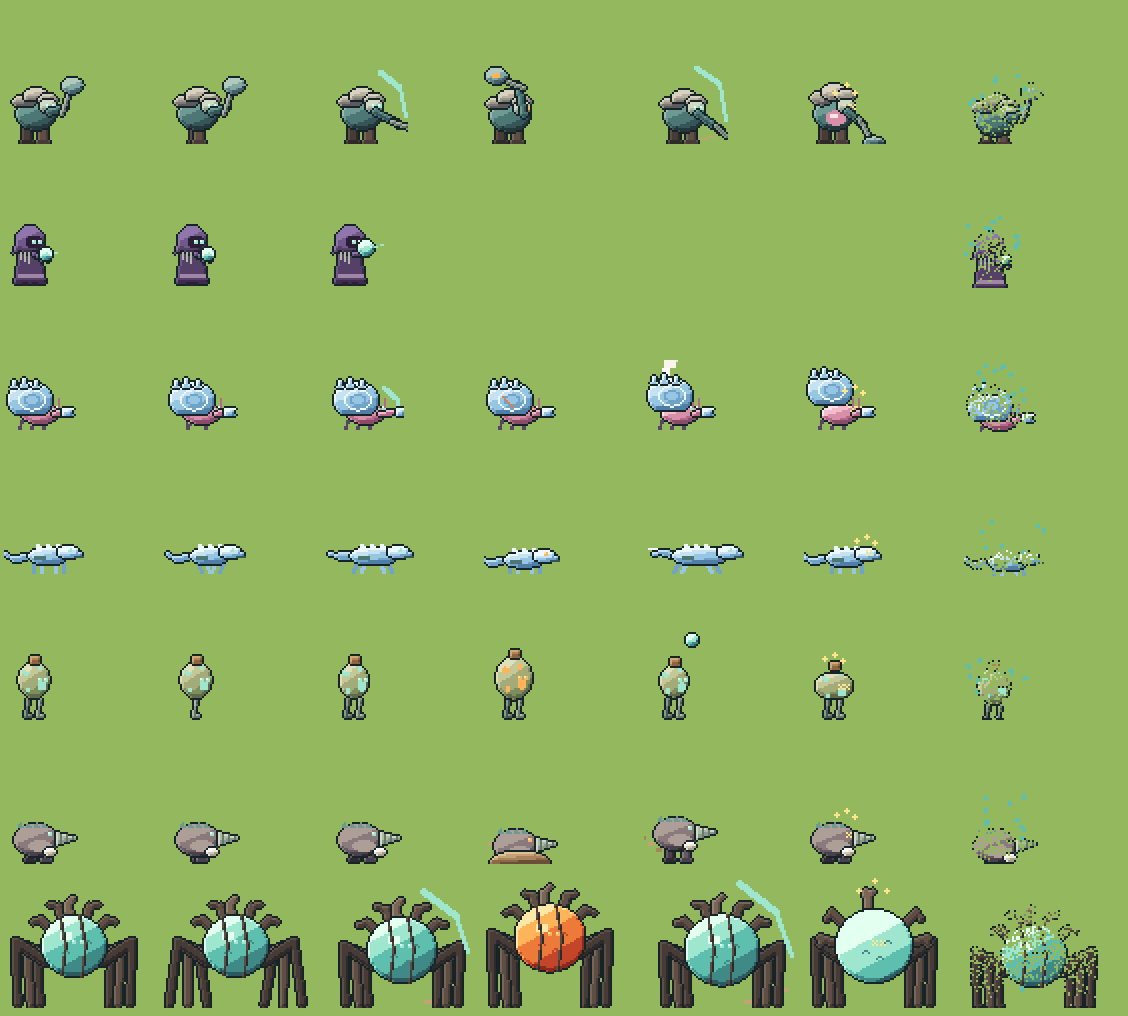
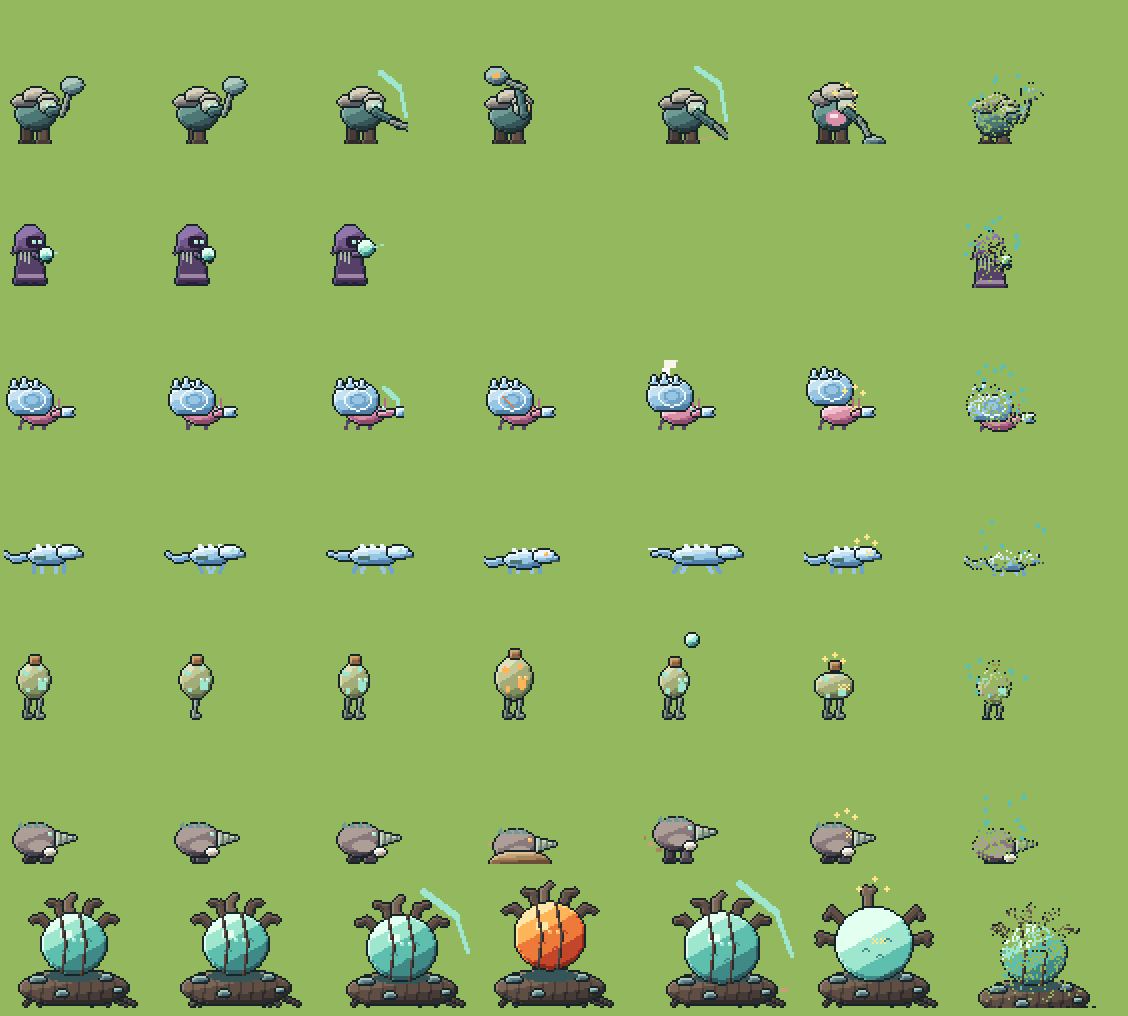
[Fix] 둥지의 핵 거미 다리를 없애고 뿌리 둥지 위의 심장으로

Changed region(s): [[0.0, 0.8543, 0.9929, 1.0]]

diff --git a/tools/art/release_slice/challenge.py b/tools/art/release_slice/challenge.py
@@ -369,17 +369,25 @@ def nestcore(b=0, lean=0, legs=0, open_=0.0, pulse=1.0, state="n", ph=0, arc=Non
     W, H = 76, 68
     img = Img(W, H)
     cx = 35 + lean
-    cy = 37 + b - raise_
-    # root legs, six, crawling
-    for k in range(6):
+    cy = 36 + b - raise_
+    # no legs: the core sits in a low nest of roots and hyphae that drags itself along on short tendrils
+    for k in range(7):                                      # tendrils on the ground, reaching forward in turn
         side = -1 if k < 3 else 1
-        j = k % 3
-        sx = cx + side * (6 + j * 4)
-        swing = math.sin(legs * math.pi / 3 + k) * 3
-        knee = (cx + side * (19 + j * 5), cy + 2 - j * 2)
-        foot = (cx + side * (17 + j * 7) + swing, 66)
-        rt = m_curve(W, H, [(sx, cy + 8), knee, foot], 5.0, 2.6)
-        mass(img, rt, "bark", "flat", INK, base=1 + (j % 2))
+        j = k % 4
+        reach = math.sin(legs * math.pi / 3 + k * 1.7) * 3
+        x0 = cx + (k - 3) * 6
+        x1 = x0 + side * (6 + j * 2) + reach + (4 if k >= 4 else 0)
+        tn = m_curve(W, H, [(x0, 58), ((x0 + x1) / 2, 63), (x1, 66)], 3.0, 1.2)
+        mass(img, tn, "bark", "flat", INK, base=1 + (k % 2))
+    nest = m_ellipse(W, H, cx, 58 + b * 0.5, 27, 9) & m_rect(W, H, 0, 0, W, 66)
+    lvn = mass(img, nest, "bark", "round", INK, base=2)
+    for k in range(9):                                      # woven roots across the nest
+        x = cx - 24 + k * 6
+        step(img, nest & m_curve(W, H, [(x, 51), (x + 3, 57), (x + 1, 64)], 1.0), "bark", lvn, -1)
+    for (dx, dy, rr) in ((-18, 54, 4), (16, 53, 3.5), (-6, 61, 3), (22, 59, 2.5)):
+        mo = m_ellipse(W, H, cx + dx, dy + b * 0.5, rr, rr * 0.6) & m_rect(W, H, 0, 0, W, int(dy + b * 0.5) + 1)
+        mass(img, mo, "cap", "round", INK, base=3)              # little mould caps on the nest
+    put(img, m_ellipse(W, H, cx, 52 + b * 0.5, 14, 3) & nest, RAMP["mould"][1])   # hollow the core sits in
     r = 16 + pulse
     hotcol = HOT if state == "h" else RAMP["organ"]
     # rib cage of roots behind the core; the ribs swing wide when it is exposed

diff --git a/docs/art/release_slice/HANDOFF.md b/docs/art/release_slice/HANDOFF.md
@@ -51,8 +51,8 @@
 - **안 한 것**: 도전 적 7종과 R40 둥지 핵, HUD 상단(자원·체력 막대)·결과 화면, 타격 효과, 타이틀. 반짝임·팝은 움직임이라 정지 캡처로는 일부만 보인다. 성능은 실측하지 않았다.
 
 ## 도전 적 7종·둥지의 핵·HUD 상단(2026-11-13)
-- **그림**: `tools/art/release_slice/challenge.py` → `slice_challenge.png/.json`(1024×640). 균사 호위병(돌 갑판·균사 망치), 균사 매듭(두건 쓴 직조사, 손 사이 빛나는 매듭), 서리 갑각병(얼음 소라 껍데기·집게, 증기), 빙결 질주자(낮은 얼음 도마뱀, 돌진 서리 줄), 발효 포자낭(부풀어 포자 공을 쏘는 자루), 균사 잠입병(균사 드릴 코 두더지, 땅에 반쯤 들어감), 둥지의 핵(뿌리 갈비뼈 속 심장, 뿌리 다리 6개). 계약 크기·피벗·프레임 수·fps·타격/소환 프레임은 `char_challenge.json`과 같다(다르면 빌드 실패).
+- **그림**: `tools/art/release_slice/challenge.py` → `slice_challenge.png/.json`(1024×640). 균사 호위병(돌 갑판·균사 망치), 균사 매듭(두건 쓴 직조사, 손 사이 빛나는 매듭), 서리 갑각병(얼음 소라 껍데기·집게, 증기), 빙결 질주자(낮은 얼음 도마뱀, 돌진 서리 줄), 발효 포자낭(부풀어 포자 공을 쏘는 자루), 균사 잠입병(균사 드릴 코 두더지, 땅에 반쯤 들어감), 둥지의 핵(뿌리 갈비뼈 속 심장이 뿌리·균사 둥지 위에 얹혀 짧은 촉수로 기어감 — 거미처럼 보이던 다리는 사용자 의견으로 없앰). 계약 크기·피벗·프레임 수·fps·타격/소환 프레임은 `char_challenge.json`과 같다(다르면 빌드 실패).
 - **공통 신호**: `heavy_prepare`는 눈·장기가 주황·빨강으로 달아오르고 몸이 웅크린다. `heavy_exposed`는 눈이 별 모양, 약점(분홍 배·들린 껍데기·열린 갈비뼈)이 드러나고 머리 위로 별이 돈다. 엔진의 예고·노출 표시와 겹쳐도 그림만으로 "곧 큰 공격 / 지금 때려라"가 읽히게 했다.
 - **HUD 상단**: `hud_skin.gd`의 `TopSkin` — 자원 패널·기지 체력 막대에 빵 껍질 테두리와 모서리 징, 밀가루가 가득 차면 금빛 맥동, 체력이 깎이면 흰 잔상이 잠시 남았다 줄어듦(대전 게임식), 아군 기지 30% 미만이면 붉은 경고 맥동. HUD 파일은 수정하지 않았다.
 - **캡처(실제 게임)**: `captures/challenge/` — `pairs_r36_r40.png`(왼쪽 기존, 오른쪽 새), `r40_after_640x360.png`. `challenge_sheet_2x.png`는 생성기 시트.
-- **약한 점**: 균사 매듭·빙결 질주자는 기존보다 작게 보인다. 둥지의 핵은 다리가 길어 거미처럼 읽힌다. 잔상·맥동은 움직임이라 정지 캡처로는 확인이 제한적이다.
+- **약한 점**: 균사 매듭·빙결 질주자는 기존보다 작게 보인다. 둥지의 핵 둥지 버전은 생성기 시트로만 확인했다: 2026-11-13 05:15 캡처 때 Codex의 미커밋 `src/gameplay/painted_chapter_backdrop.gd`가 컴파일되지 않아 미리보기 배경이 통째로 실패했다(내 파일 아님, 손대지 않음). 잔상·맥동은 움직임이라 정지 캡처로는 확인이 제한적이다.
